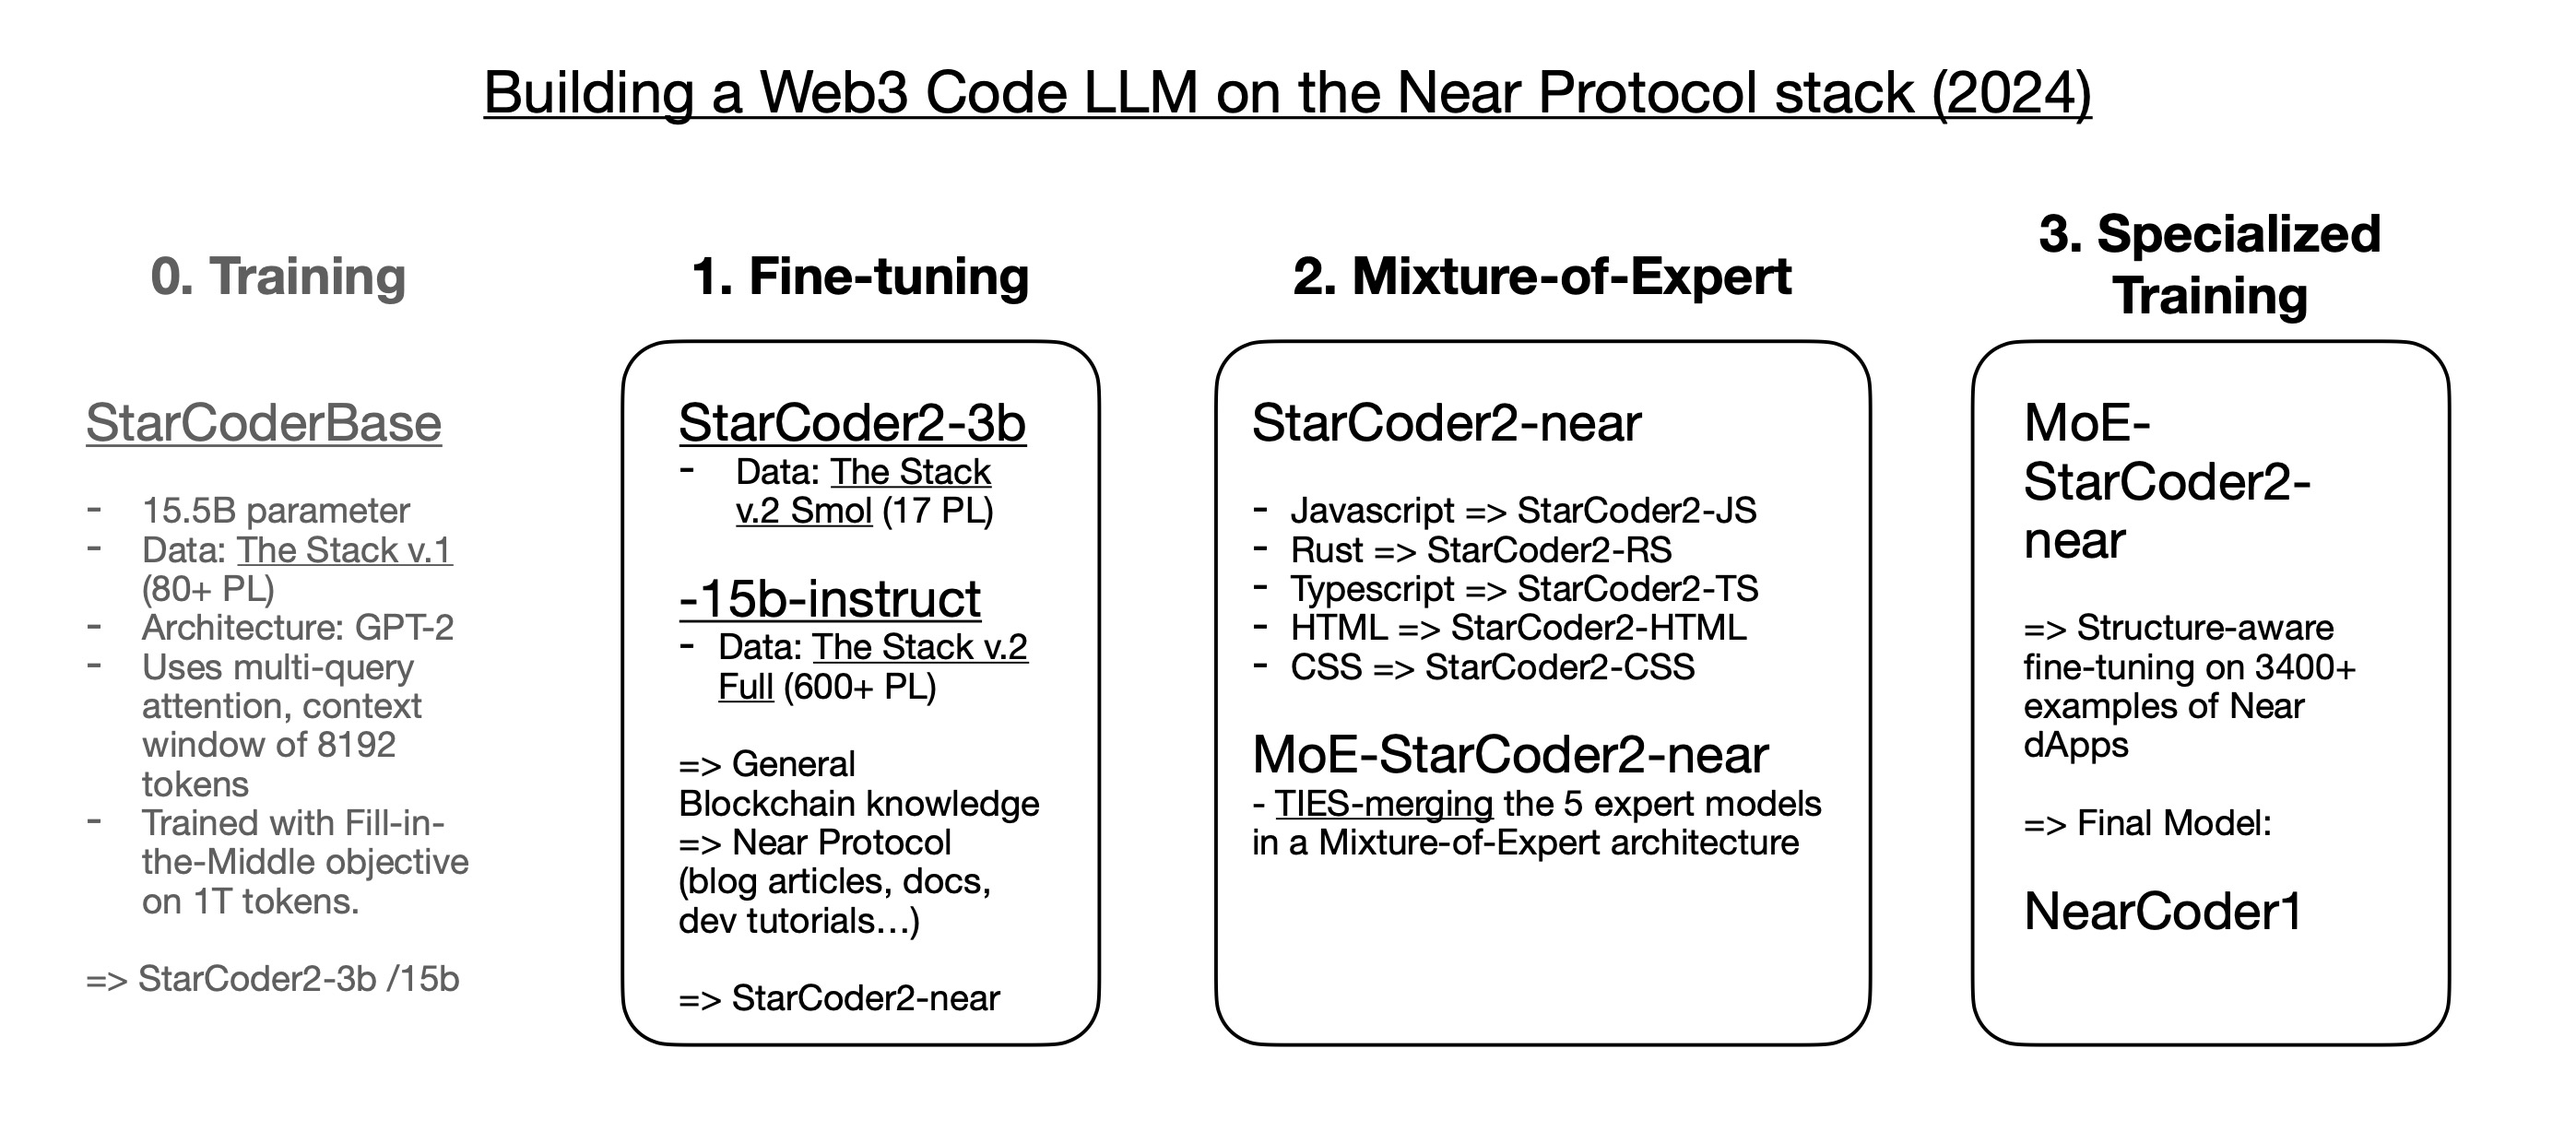
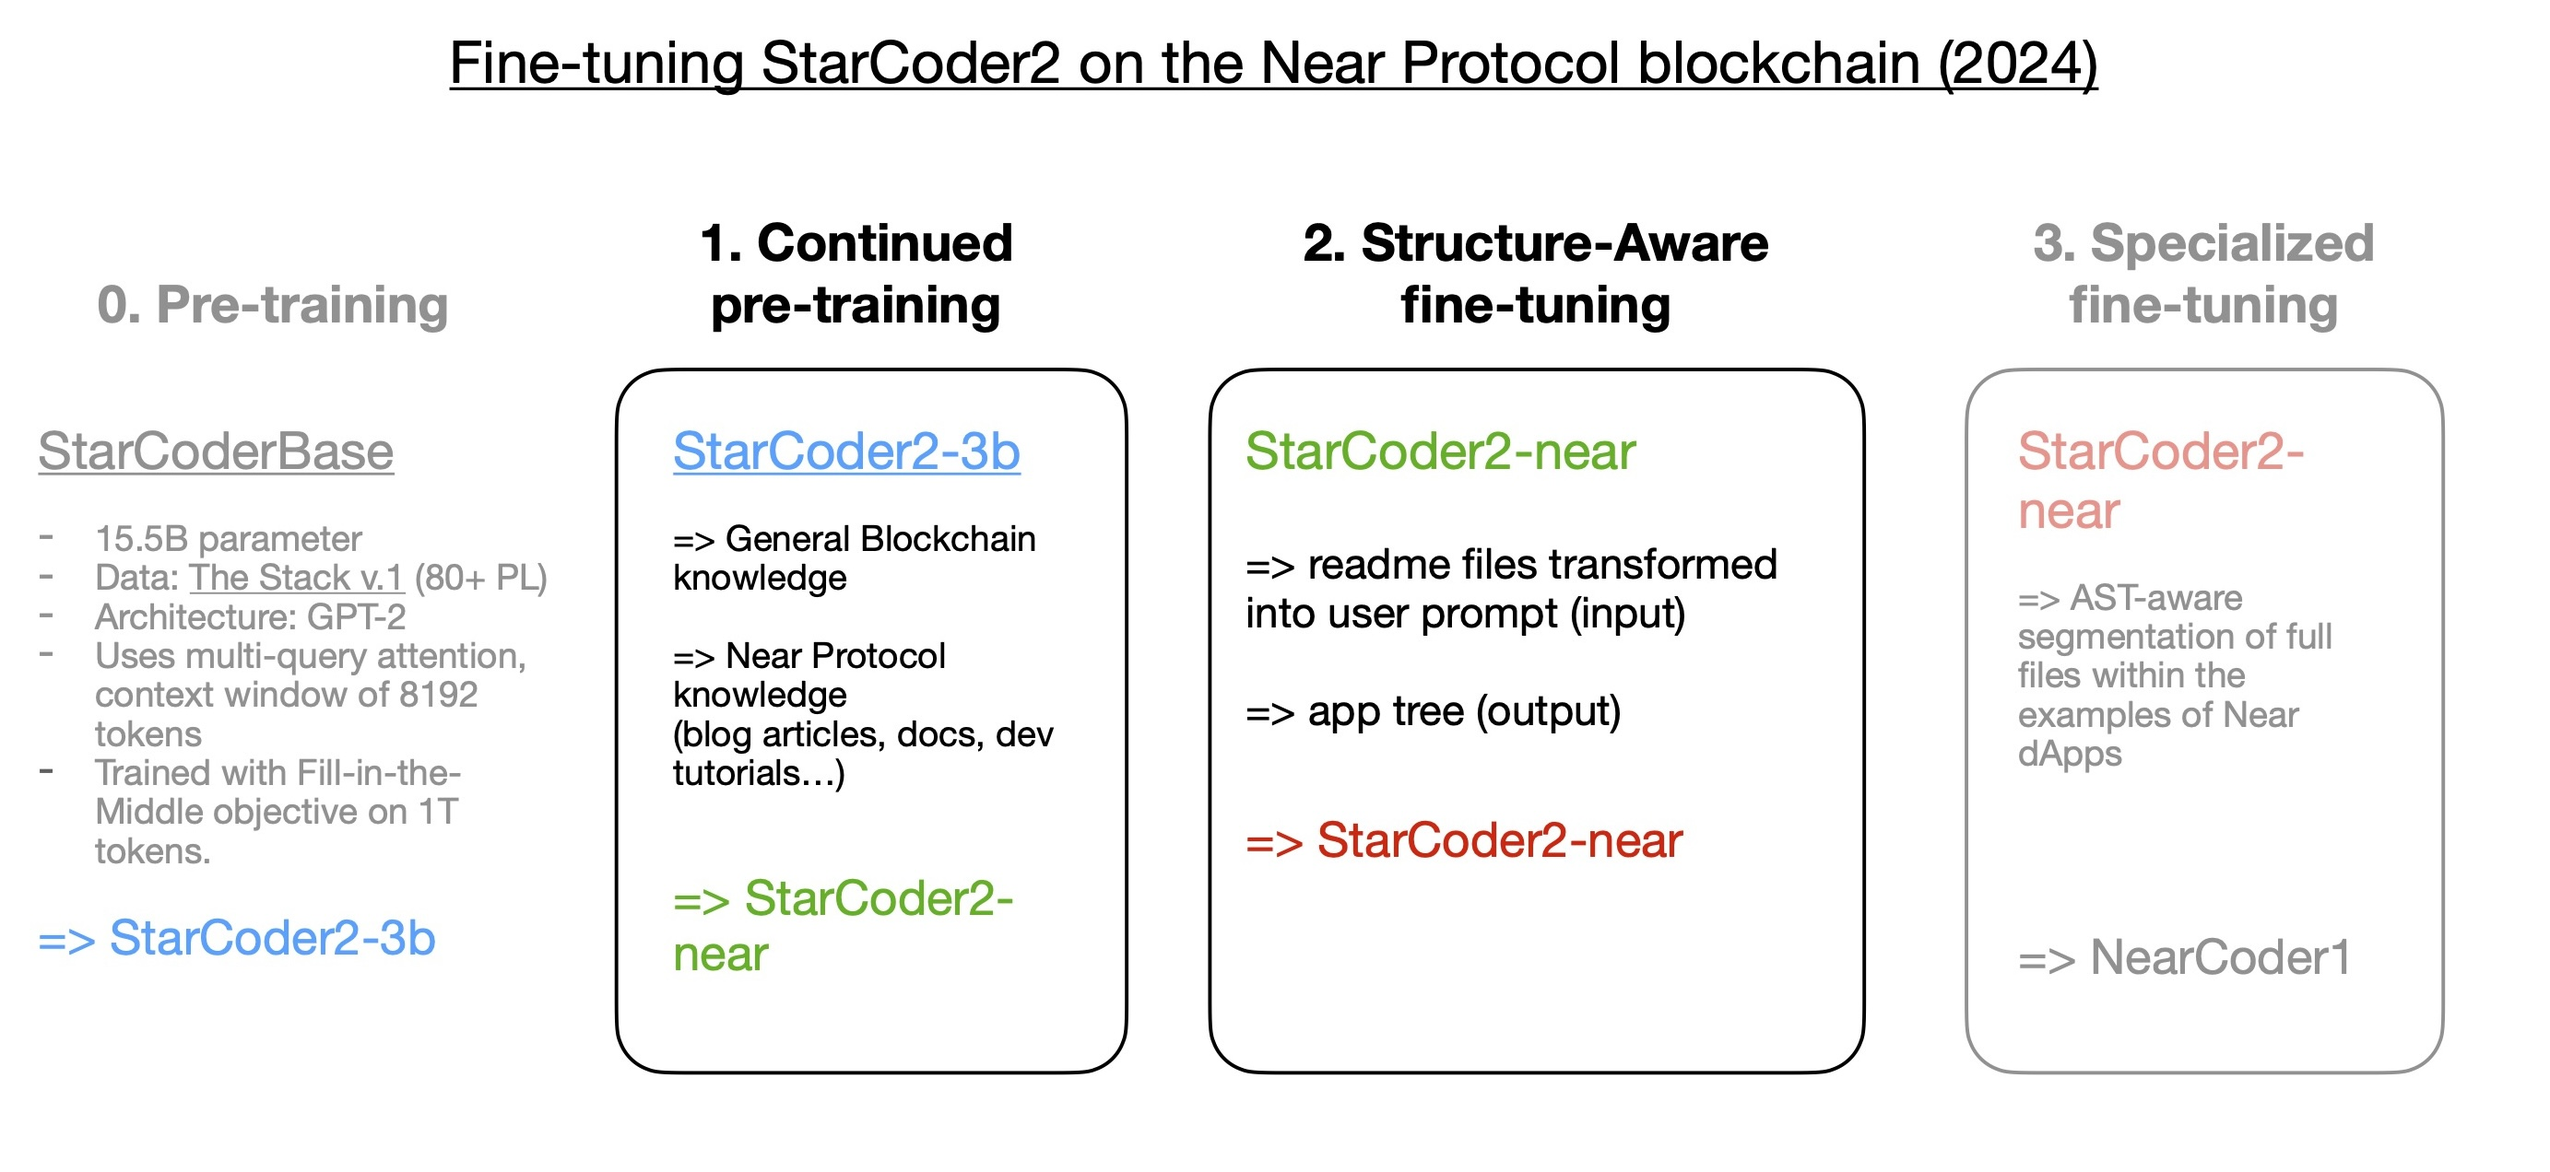
updated nearData description and draft protocol

diff --git a/nearData/nearData.md b/nearData/nearData.md
@@ -1,8 +1,14 @@
 The fine-tuning dataset is composed of:
 
-- nearBlog: 481 blog articles from [near.org/blog](https://near.org/blog) collected on March 13th 2024.
-- nearDocs: 395 docs files from [docs.near.org](https://docs.near.org) collected on March 13th 2024.
+- nearBlog: 481 blog articles from [Near Blog](https://near.org/blog) collected on March 13th 2024.
+- nearBosWebEngine: 13 docs files from the [Near BOS Wen Engine](https://github.com/near/bos-web-engine) collected on May 21st 2024.
 - nearDapps: 3414 text versions of near dApp repositories listed by [Electric Capital](https://github.com/electric-capital/crypto-ecosystems/blob/master/data/ecosystems/n/near.toml). It has been collected between April 24th and May 17th using the GitHub scraper [RepoToText](https://github.com/JeremiahPetersen/RepoToText). 
-- nearDappsTrees: 3414 text files representing the tree structure of the nearDapps files.
+- nearDappsReadme: 23166 readme files extracted in text formats from the near dApps files.
+- nearDappsTrees: 3414 text files representing the tree structure extracted from the nearDapps files.
+- nearDocs: 395 docs files from [Near Docs](https://docs.near.org) collected on March 13th 2024.
+- nearNEPs: 124 docs files from the [NEAR Enhancement Protocol](https://github.com/near/NEPs) collected on May 21st 2024.
+- nearNode: 40 docs files from the [Near Node Docs](https://github.com/near/node-docs) collected on May 21st 2024.
+- nearPapers: 3 papers from the [Near Papers](https://near.org/papers) collected on May 21st 2024.
+- nearWiki: 98 docs from the [Near Wiki](https://github.com/near/wiki) collected on May 21st 2024.
 
-The full dataset can't be uploaded on GitHub. Available on google drive https://drive.google.com/drive/folders/1QPYdtPBZhPEjgnvGVXIZ-MbLeMJNWlI6 and will be published in its final version on huggingface.
+The full dataset can't be uploaded on GitHub. It is available as a .zip file on google drive https://drive.google.com/drive/folders/1QPYdtPBZhPEjgnvGVXIZ-MbLeMJNWlI6. It will be published in its final version on huggingface for transparency and replicability.

diff --git a/README.md b/README.md
@@ -6,11 +6,6 @@ The Web3 Code LLM aims to help blockchain developers in their coding challenges.
 
 The fast-changing set of coding languages and the nascent stage of the web3 industry makes it hard for it to hire developers willing to start coding from scratch and we believe that a powerful coding assistant would be a significant help in that context. 
 
-The Web3 Code LLM will be primarily fine-tuned on the Near Protocol stack:
-- react.js / node.js as for web app development
-- Near Protocol technology (sharding, etc.)
-- BOS widgets for decentralized frontend
-- javascript as for frontend 
-- rust as for backend smart contracts
+The Web3 Code LLM is a StarCoder2-3b fine-tuned on the Near Protocol documentation, dApp structure and full dApps repositories collected from open GitHub repositories.
 
 The Web3 Code LLM has been started as a [course project at the opencampus.sh](https://edu.opencampus.sh/en/course/477). 
